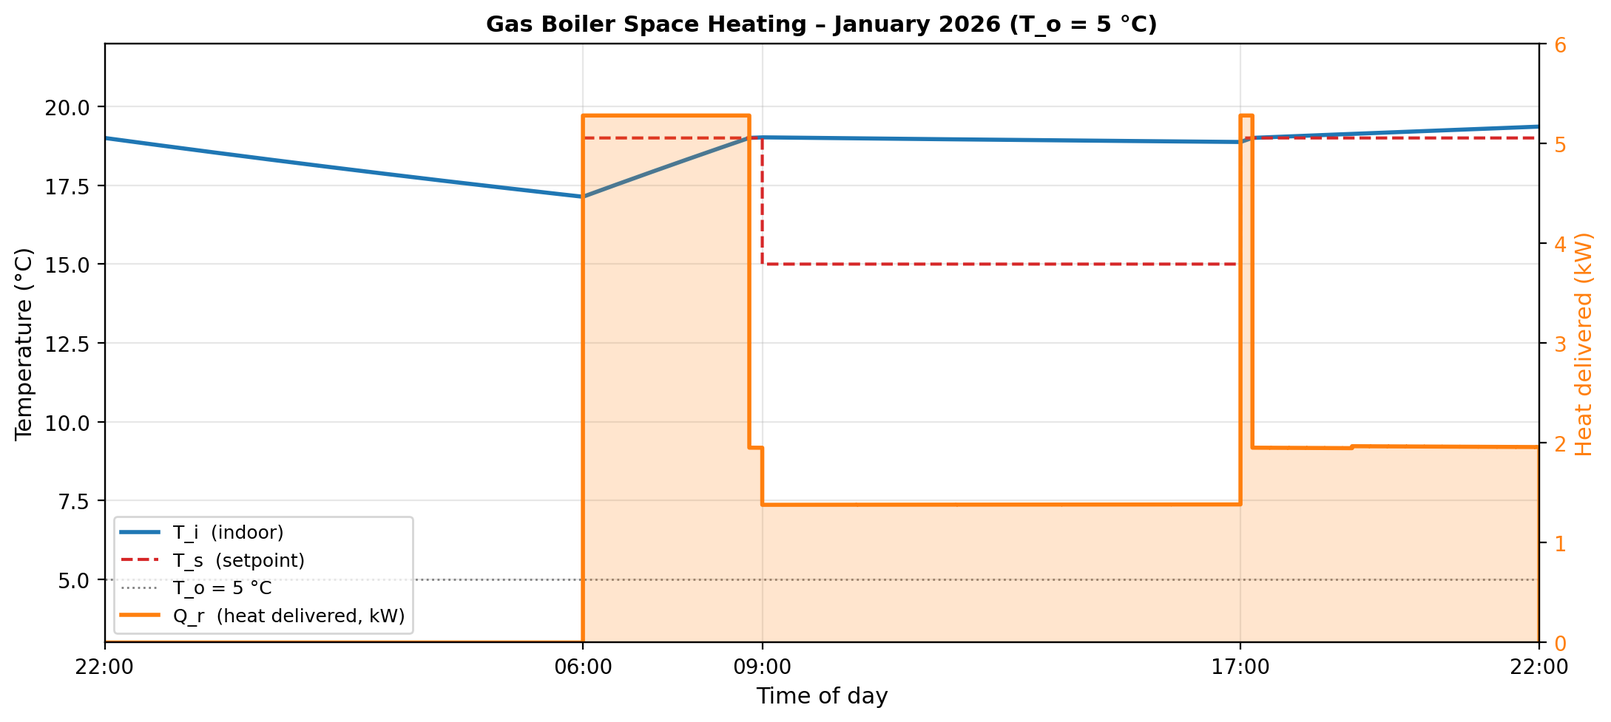
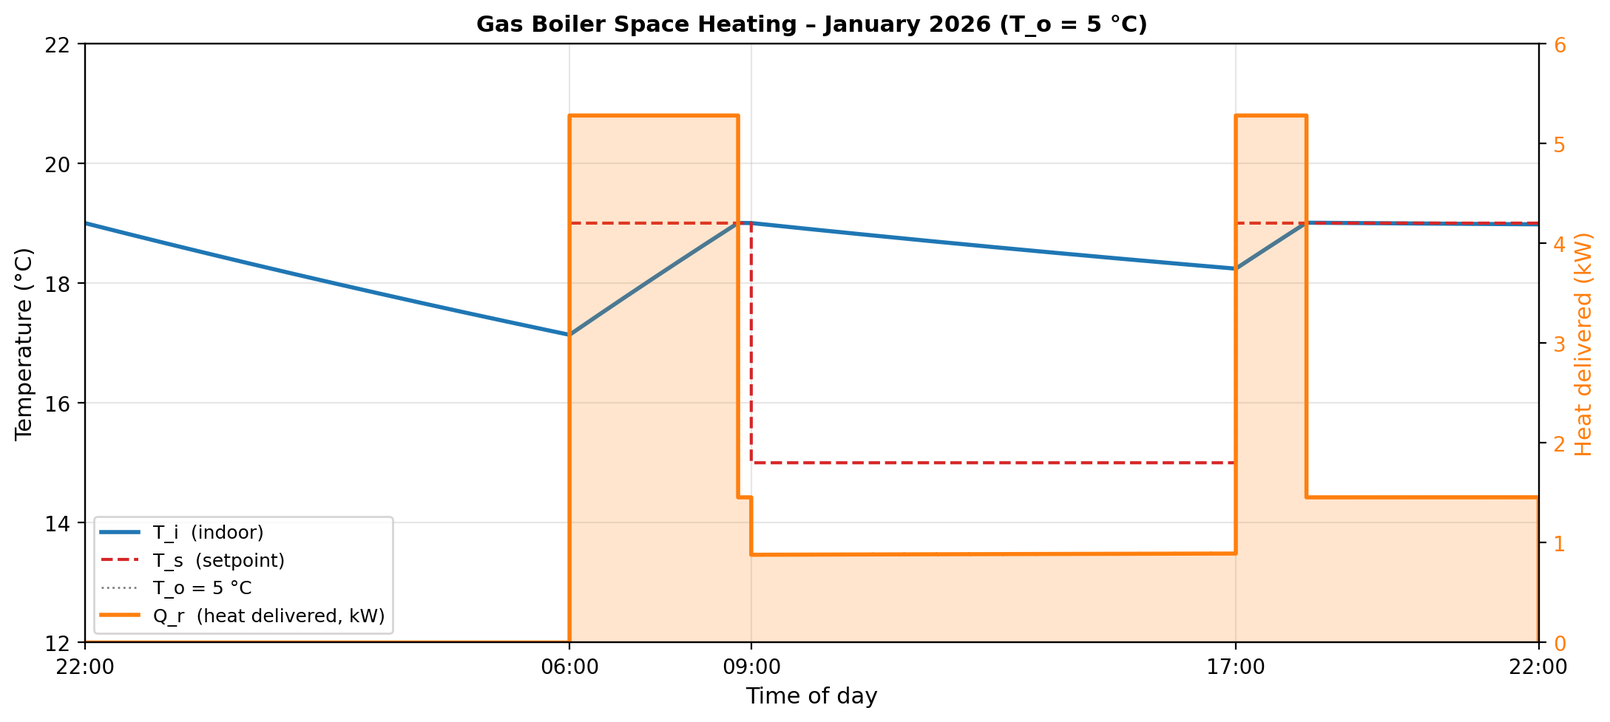
Rework calculations

diff --git a/src/heat_pump_cost/simulate_gas_boiler.py b/src/heat_pump_cost/simulate_gas_boiler.py
@@ -14,7 +14,6 @@ Model parameters (from April 2026 thermal identification):
 
 Simulation conditions:
   T_o  = 5 °C         January 2026 average outdoor temperature
-  Q_max = 12 000 W    gas boiler maximum output
   Boiler efficiency η = 0.95 (condensing)
   Gas price = 5.93 p/kWh (Ofgem January 2026 price cap)
 """
@@ -65,18 +64,37 @@ def _setpoint(t_hours: float) -> float | None:
     return SCHEDULE[-1][2]
 
 
-def _controller(T_i: float, T_s: float | None, h: float, T_o: float, Q_max: float) -> float:
-    """Bang-bang + feed-forward boiler controller.
+def _controller(T_i: float, T_s: float | None, h: float, T_o: float, Q_b: float, Q_max: float, at_setpoint: bool) -> tuple[float, bool]:
+    """Bang-bang + feed-forward boiler controller with hysteresis.
 
     - Heating OFF  → 0 W
-    - T_i < T_s    → Q_max  (full power)
-    - T_i ≥ T_s    → h * (T_s - T_o)  (feed-forward to hold setpoint)
+    - T_i < T_s (initial warm-up)  → Q_max until setpoint reached
+    - T_i ≥ T_s (first time)  → switch to feedforward, mark as at_setpoint
+    - at_setpoint AND T_i < T_s - 0.5°C  → Q_max (re-engage full power)
+    - at_setpoint AND T_i ≥ T_s - 0.5°C  → feedforward (gentle drop allowed)
+    
+    Returns:
+        (Q_h, new_at_setpoint): Heating power [W] and updated setpoint state
     """
     if T_s is None:
-        return 0.0
-    if T_i < T_s:
-        return Q_max
-    return max(0.0, h * (T_s - T_o))
+        return 0.0, False
+    
+    # If not at setpoint yet, use bang-bang to reach it
+    if not at_setpoint:
+        if T_i >= T_s:
+            # Just reached setpoint, switch to feedforward
+            return max(0.0, h * (T_s - T_o) - Q_b), True
+        else:
+            # Still warming up
+            return Q_max, False
+    
+    # Already at setpoint: use hysteresis to prevent frequent cycling
+    if T_i < T_s - 0.5:
+        # Temperature dropped too much, re-engage full power
+        return Q_max, False  # Mark as not at setpoint anymore
+    else:
+        # Use feedforward (allows gentle drop below setpoint)
+        return max(0.0, h * (T_s - T_o) - Q_b), True
 
 
 # ---------------------------------------------------------------------------
@@ -86,7 +104,7 @@ def _controller(T_i: float, T_s: float | None, h: float, T_o: float, Q_max: floa
 
 def simulate_gas_boiler(
     T_o: float = 5.0,
-    Q_max: float = 12_000.0,
+    Q_max: float = 50_000.0,
     T_i_0: float = 19.0,
     dt_s: float = 60.0,
 ) -> dict:
@@ -139,17 +157,26 @@ def simulate_gas_boiler(
     T_f_arr[0] = T_i_0
 
     T_i = T_i_0
+    at_setpoint = False  # Track whether we've reached the current setpoint
+    prev_setpoint = None  # Track setpoint changes
+    
     for k in range(n_steps - 1):
         t_h = t_h_arr[k]
         T_s = _setpoint(t_h)
-        Q_h = _controller(T_i, T_s, params.h, T_o, Q_max)
+        
+        # Reset at_setpoint flag if setpoint changed
+        if T_s != prev_setpoint:
+            at_setpoint = False
+            prev_setpoint = T_s
+        
+        Q_h, at_setpoint = _controller(T_i, T_s, params.h, T_o, params.Q_b, Q_max, at_setpoint)
 
         # Solve for flow temperature and actual radiator output
         if Q_h > 50.0:
             T_f = model.solve_flow_temp(Q_h, T_i)
             if T_f is None:
                 # Q_h exceeds radiator capacity; saturate at boiler max flow temperature
-                T_f = min(T_i + 55.0, 75.0)
+                T_f = min(T_i + 55.0, 80.0)
             T_r = model.solve_return_temp(T_f, T_i)
             Q_r = model.radiator_power(T_f, T_r, T_i) if T_r is not None else 0.0
         else:
@@ -222,8 +249,8 @@ def calculate_heat_pump_cost(result: dict) -> dict:
     # Total electricity in kWh
     total_elec_kwh = np.sum(P_elec * dt_s) / 3_600_000.0  # W⋅s → kWh
     
-    # Cost
-    cost_gbp = total_elec_kwh * ELECTRICITY_PRICE_PER_KWH + ELECTRICITY_STANDING_CHARGE
+    # Cost (energy only, standing charge added separately in display)
+    cost_gbp = total_elec_kwh * ELECTRICITY_PRICE_PER_KWH
     
     return {
         "electricity_kwh": total_elec_kwh,
@@ -275,7 +302,7 @@ def plot_gas_boiler(result: dict, output_path: Path, show: bool = False, dpi: in
                   drawstyle="steps-post", label="T_s  (setpoint)")
     l3 = ax.axhline(T_o, color="grey", linewidth=1, linestyle=":", label=f"T_o = {T_o:.0f} °C")
     ax.set_ylabel("Temperature (°C)", fontsize=11)
-    ax.set_ylim(T_o - 2, 22)
+    ax.set_ylim(12, 22)
     ax.set_title(
         f"Gas Boiler Space Heating – January 2026 (T_o = {T_o:.0f} °C)",
         fontsize=11,
@@ -396,8 +423,8 @@ def main(argv: Iterable[str] | None = None) -> int:
         help="Constant outdoor temperature T_o [°C] (default: 5.0)",
     )
     parser.add_argument(
-        "--q-max", type=float, default=12_000.0,
-        help="Boiler maximum output [W] (default: 12000)",
+        "--q-max", type=float, default=50_000.0,
+        help="Boiler commanded power [W] (default: 50000, actual delivery limited by radiator)",
     )
     parser.add_argument(
         "--output", default="assets/gas_boiler_simulation.png",

diff --git a/src/heat_pump_cost/simulate_tariff_optimized.py b/src/heat_pump_cost/simulate_tariff_optimized.py
@@ -372,7 +372,7 @@ def plot_tariff_optimized_operation(
     l1, = ax.plot(t, T_i, color="#1f77b4", linewidth=2, label="T_i  (indoor)")
     l2 = ax.axhline(T_o, color="grey", linewidth=1, linestyle=":", label=f"T_o = {T_o:.0f} °C")
     ax.set_ylabel("Temperature (°C)", fontsize=11)
-    ax.set_ylim(T_o, 22)
+    ax.set_ylim(12, 22)
     ax.set_title(
         f"Tariff-Optimized Heat Pump – January 2026 (T_o = {T_o:.0f} °C)",
         fontsize=11,

diff --git a/src/heat_pump_cost/simulate_smooth_heat_pump.py b/src/heat_pump_cost/simulate_smooth_heat_pump.py
@@ -297,7 +297,7 @@ def plot_smooth_heat_pump_operation(
                   drawstyle="steps-post", label="T_s  (setpoint)")
     l3 = ax.axhline(T_o, color="grey", linewidth=1, linestyle=":", label=f"T_o = {T_o:.0f} °C")
     ax.set_ylabel("Temperature (°C)", fontsize=11)
-    ax.set_ylim(T_o, 22)
+    ax.set_ylim(12, 22)
     ax.set_title(
         f"Smooth Heat Pump Operation – January 2026 (T_o = {T_o:.0f} °C)",
         fontsize=11,

diff --git a/operations-dynamic.md b/operations-dynamic.md
@@ -1,6 +1,6 @@
 # Quantitative Analysis of Dynamic Heat Pump Operation for Domestic Heating
 
-The preceding story, [How the Spark Gap Drives Radiator Upgrades for Heat Pump Installations ](https://medium.com/@peter-wurmsdobler/how-the-spark-gap-drives-radiator-upgrades-for-heat-pump-installations-1d3b098b29fd), addresses the implications of the spark gap on capital and operational expenses due to a nearly unavoidable upgrade in radiator capacity in order to keep the flow temperature low and the [Coefficient of Performance](https://en.wikipedia.org/wiki/Coefficient_of_performance) (COP) high; there a simple static thermal analysis looks at average quantities for heat loss and temperature for a heat pump in a stationary operation. The situation changes if dynamic aspects are taken into account for the operation of the heat pump in contrast to the gas boiler operation most homes are used to, both in terms of setpoint temperature profiles and electricity tariffs. As presented in sources such as ["So You're Thinking About a Heat Pump: The UK Homeowner's Guide to Heat Pumps"](https://www.amazon.co.uk/Youre-Thinking-About-Heat-Pump/dp/B0GK7H511K/), heat pumps require different operating strategies compared to gas boilers. The objective of this story is to demonstrate quantitatively how control and operation strategy impacts the economics of domestic heat pump heating. 
+The preceding story, [How the Spark Gap Drives Radiator Upgrades for Heat Pump Installations ](https://medium.com/@peter-wurmsdobler/how-the-spark-gap-drives-radiator-upgrades-for-heat-pump-installations-1d3b098b29fd), addresses the implications of the spark gap on capital and operational expenses due to a nearly unavoidable upgrade in radiator capacity in order to keep the flow temperature low and the [Coefficient of Performance](https://en.wikipedia.org/wiki/Coefficient_of_performance) (COP) high; there, a simple static thermal analysis looks at average quantities for heat loss and temperature for a heat pump in stationary operation. The situation changes if dynamic aspects are taken into account for the operation of the heat pump, both in terms of temperature profiles and electricity tariffs. As presented in sources such as ["So You're Thinking About a Heat Pump: The UK Homeowner's Guide to Heat Pumps"](https://www.amazon.co.uk/Youre-Thinking-About-Heat-Pump/dp/B0GK7H511K/), heat pumps require different operating strategies compared to gas boilers most households are used to. The objective of this story is to demonstrate quantitatively how control and operation strategy impacts the economics of domestic heat pump heating. 
 
 ![Cat prefers consistent heat](assets/smooth-operator.png)
 *Figure: A cat would prefer the smooth operation of a heating system with a heat pump.*
@@ -8,37 +8,37 @@ The preceding story, [How the Spark Gap Drives Radiator Upgrades for Heat Pump I
 
 # Dynamic Modelling
 
-A stationary model assumes all process variables to be constant at a given point of operation: for a constant outdoor temperature a constant heating power is required to maintain a constant indoor temperature by compensating a constant heat loss. While this static analysis can provide some insight in minimum requirements for heating at various operation points, a dynamic analysis is looking at time-variant process variables such as heating power or flow temperature. To that end a dynamic model of the system is required first.
+A stationary model assumes all process variables to be constant at a given point of operation: for a constant outdoor temperature a constant heating power is required to maintain a constant indoor temperature by compensating a constant heat loss. While this static analysis can provide some insight in minimum requirements for heating at various operating points, a dynamic analysis is looking at time-variant process variables such as heating power or flow temperature. To that end a dynamic model of the system is required first.
 
 ## Dynamic Thermal Model
 
-A dynamic model reflects the time-variant behaviour of a system. Here, I would like to use the simplest conceivable model, a linear first order model with two time-invariant parameters: the thermal capacity C of the entire house, and the specific heat loss, or Heat Transfer Coefficient (HTC), or h. The following process variables will be considered: internal temperature T_i, and outside temperature T_o; heat is supplied as Q_h at flow temperature T_f and return temperature T_r, then transferred to the internal thermal mass as Q_r through radiators; in addition, occupancy and appliances are accounted for with a heating power of Q_a. The house loses heat as Q_l through the building fabric determined by h.
+A dynamic model reflects the time-variant behaviour of a system. Here, I would like to use the simplest conceivable model, a linear first order model with two time-invariant parameters: the thermal capacity C of the entire house, and the specific heat loss, or Heat Transfer Coefficient (HTC), or h. The following process variables will be considered: internal temperature T_i, and outside temperature T_o; heat is supplied as Q_h at flow temperature T_f and return temperature T_r, then transferred to the internal thermal mass as Q_r through radiators; in addition, occupancy and appliances are accounted for with a heating power of Q_b. The house loses heat as Q_l through the building fabric determined by h.
 
 ![Simple dynamic thermal model for house](assets/house-model-dynamic.png)
 *Figure: Simple representation of a simple dynamic house model with heat source, capacity and losses.*
 
-Most commonly differential equations are used to describe dynamic systems; in this case, using heating fluid (water) density ρ, its specific thermal capacity c_p and a flow rate V_f, the characteristic radiator constant K and radiative exponent n, and finally the transfer coefficient h, the equations are:
+Differential equations are most commonly used to describe dynamic systems in combination with functional relationships between process variables; in this case, with the heating fluid (water) density ρ, its specific thermal capacity c_p and a flow rate V_f, the characteristic radiator constant K and radiative exponent n, and finally the transfer coefficient h, the equations are:
 
 Q_h = V_f * ρ * c_p * (T_f - T_r)<br>
 Q_r = K * ((T_f + T_r)/2 - T_i)^n<br>
 Q_l = h * (T_i - T_o)<br>
-C * dT_i/dt = Q_r + Q_a - Q_l
+C * dT_i/dt = Q_r + Q_b - Q_l
 
-[How the Spark Gap Drives Radiator Upgrades for Heat Pump Installations ](https://medium.com/@peter-wurmsdobler/how-the-spark-gap-drives-radiator-upgrades-for-heat-pump-installations-1d3b098b29fd) has identified the values of some parameters for the dynamic analysis: K = 44.9 W/K^1.2 with n = 1.2, ρ = 1 kg/l and c_p = 4.18 kJ/kg/K, V_f is assumed to be constant at 20 l/s for this analysis; heat power is only modulated through the flow temperature only (which keeps the flow temperature as low as possible). Also note, the heat balance for the radiator circuit (no losses in short pipework), is Q_h = Q_r. For the heat loss coefficient, we have two values: h = 244 W/K from first principles, or h = 188 W/K from recorded power consumption; the appliance/occupancy heat source is about Q_a = 0.3W but could be more; C, the house's thermal capacity is completely unknown.
+[How the Spark Gap Drives Radiator Upgrades for Heat Pump Installations ](https://medium.com/@peter-wurmsdobler/how-the-spark-gap-drives-radiator-upgrades-for-heat-pump-installations-1d3b098b29fd) has identified the values of some parameters for the dynamic analysis: K = 44.9 W/K^1.2 with n = 1.2, ρ = 1 kg/l and c_p = 4.18 kJ/kg/K; V_f is assumed to be constant at 20 l/s for this analysis; heat power is modulated through the flow temperature only (which keeps the flow temperature as low as possible). Also note, the heat balance for the radiator circuit (no losses in short pipework), is Q_h = Q_r. For the heat loss coefficient, we have two values as prior: h = 244 W/K from first principles, or h = 188 W/K from recorded power consumption; the appliance/occupancy heat source is about Q_b = 0.5 kW but could be more; C, the house's thermal capacity is completely unknown.
 
 ## Model Parameter Identification
 
-An entire discipline in control systems analysis and design is model parameter identification, usually based on recorded data, or data obtained through a system response on a stimulus. To that end, we consider a simplified model that eliminates the heating system internals, but accounts for some background power Q_b (appliances, occupancy and other sources) and radiator power Q_r:
+An entire discipline in control systems analysis and design is dedicated to model parameter identification, usually based on recorded data, or data obtained through a system response on a stimulus. To that end, we consider a simplified model that eliminates the heating system internals, but accounts for some background power Q_b (appliances, occupancy and other sources) and radiator power Q_r:
 
 C * dT_i/dt = -h * (T_i - T_o) + Q_b + Q_r
 
-In practical terms, we need to set up some experiments and record data, or obtain data from other means. To obtain the internal temperature, a [Raspberry PicoPi Temperature Logger](https://github.com/LeonardWurmsdobler/PicoTemperatureLogger) can record indoor temperature measurements. Outside temperatures we can obtain from some source such as the [Cambridge Raw Daily Weather Data](https://www.cl.cam.ac.uk/weather/index-daily-text.html). We consider three periods:
+In practical terms, we need to set up some experiments and record data. To obtain the internal temperature, a [Raspberry PicoPi Temperature Logger](https://github.com/LeonardWurmsdobler/PicoTemperatureLogger) records indoor temperature measurements. Outside temperatures are obtain from the [Cambridge Raw Daily Weather Data](https://www.cl.cam.ac.uk/weather/index-daily-text.html). We consider three periods:
 
-- "2026-04-04 01:00:00" to "2026-04-04 06:00:00", outside T_o = 7°C, heating off, i.e. Q_r = 0, and Q_b ~0.5W
-- "2026-04-05 22:45:00" to "2026-04-06 04:20:00", outside T_o = 3°C, heating off, i.e. Q_r = 0, and Q_b ~0.5W
-- "2026-04-06 06:30:00" to "2026-04-06 08:15:00", outside T_o = 3°C - 7°C, heating on full power, i.e. Q_r ~4 kW, and Q_b ~0.5W
+- "2026-04-04 01:00:00" to "2026-04-04 06:00:00", outside T_o = 7°C, heating off, i.e. Q_r = 0, and Q_b ~0.5kW
+- "2026-04-05 22:45:00" to "2026-04-06 04:20:00", outside T_o = 3°C, heating off, i.e. Q_r = 0, and Q_b ~0.5kW
+- "2026-04-06 06:30:00" to "2026-04-06 08:15:00", outside T_o = 3°C - 7°C, heating on full power, i.e. Q_r > 0 kW, and Q_b ~0.5kW
 
-Once that data was recorded, some system parameter identification tools are employed to obtain some estimates for the missing parameters, C, h and Q_a; results as shown below, details on [Thermal Parameter Identification for the Dynamic House Model](https://github.com/PeterWurmsdobler/heat-pump-cost/system-identification.md). The parameters are found to be C = 21.0 MJ/K, h = 142.6 W/K, and the associated time constant τ = 146,937 s  (40.8 h), as well as Q_b = 500 W and Q_r = 4 kW during the morning heating period. Note, the time constant of 40.8h means that the house would cool down to 63% towards the constant outside temperature after about 2 days if left unheated. 
+Some system parameter identification tools are employed to obtain estimates for the missing parameters, C, h and Q_b; results as shown below, details on [Thermal Parameter Identification for the Dynamic House Model](https://github.com/PeterWurmsdobler/heat-pump-cost/system-identification.md). The parameters are found to be C = 21.0 MJ/K, h = 142.6 W/K, and the associated time constant τ = 146,937 s  (40.8 h), as well as Q_b = 500 W and Q_r = 4 kW during the morning heating period. Note, the time constant of 40.8h means that the house would cool down to 63% towards the constant outside temperature after about 2 days if left unheated. 
 
 ![Contour Plot](assets/temperature_plot.png)
 *Figure: measured and estimated inside temperature based on the model in three conditions.*
@@ -46,34 +46,33 @@ Once that data was recorded, some system parameter identification tools are empl
 
 # Dynamic Heating Simulation
 
-Since we now have got a parameterised dynamic model, it should be possible to work out the heating requirements, and eventually the cost of heating. For this story, let's assume the January 2026 conditions with an average outdoor temperature T_o = 5°C. The heating requirement in a steady state would be Q_l = Q_r = 142.6 × 14 = **2.0 kW** to maintain an average of 19°C indoors, or ~48 kWh/day, to give a ballpark figure for the heating requirements. But houses are usually not maintained at a constant temperature throughout the day; this is where the dynamic simulation comes in.
+Since we now have got a parameterised dynamic model, it should be possible to work out the dynamic heating requirements, too, and eventually the cost of heating. For this story, let's assume the January 2026 conditions with an average outdoor temperature T_o = 5°C. The heating requirement in a steady state would be Q_l = Q_r = 142.6 × 14 = **2.0 kW** to maintain an average of 19°C indoors, or ~48 kWh/day, to give a ballpark figure for the heating requirements. But houses are usually not maintained at a constant temperature throughout the day; this is where the dynamic simulation comes in.
 
 ## Gas Boiler Space Heating
 
-Let's assume a traditional daily heating profile as pictured below using a gas boiler with a maximum rate power of 12kW: heating off after 22h, heating on at 6h in the morning with a setpoint of T_s = 19°C and at full capacity, off at 9h when we leave the house but keep the house over as T_s = 15°C, on again at 17pm until 22h with T_s = 19°C. The simplisitic relay-based controller would do the following:
+Let's assume a traditional daily heating profile as pictured below using a gas boiler with a maximum power of 6kW(^1): heating off after 22h, heating on at 6h in the morning with a setpoint of T_s = 19°C and at full capacity, off at 9h when we leave the house but keep the house over as T_s = 15°C, on again at 17h until 22h with T_s = 19°C. The simplisitic relay-based thermostatic controller would do the following:
 
-- if T_i < T_s, then full wack when on until target temperature of T_s is reached; 
+- if T_i < T_s, then full power until target temperature of T_s is reached; 
 - feed-forward heating power at constant T_s with Q_h = h * (T_s - T_o);
 - if T_i > T_s, then no heating required at all, let the temperature decay; 
 
-GRAPH: profiles of T_i, T_s on left axis, and P on the right axis
 ![Contour Plot](assets/gas_boiler_simulation.png)
-*Figure: January day heated with gas boiler, heat = 36.6 kWh/day, £3.19/day.*
+*Figure: January day heated with gas boiler, heat = 33.8 kWh/day, £3.01/day total household cost.*
 
-The gas boiler can produce the required peak power of 5.28 kW and deliver the heat through the flow temperature reaching 75°C through the existing radiators. The simulation shows that with a daily heat delivery of 36.6 kWh, the boiler consumes 38.5 kWh of gas (at 95% efficiency), resulting in a total daily cost of £3.19 including £2.29 gas energy, £0.35 gas standing charge, and £0.55 electricity standing charge (for household electricity needs).
+The gas boiler can produce the required peak power of 5.3 kW and deliver the heat through the flow temperature reaching 74°C through the existing radiators. The simulation shows that with a daily heat delivery of 33.8 kWh, the boiler consumes 35.6 kWh of gas (at 95% efficiency). The total household daily cost is £3.01 (£2.11 gas energy + £0.35 gas standing charge + £0.55 electricity standing charge for household electricity needs).
 
 ## Equivalent Heat Pump Variant
 
 Let's assume we got an equivalent heat pump installed capable of delivering the same power. Now, let's run the heat pump to deliver the same power, which would lead to the same flow and return temperatures at the same flow rate. Then let's look at the COP and the resulting electricity consumption. The flow temperature profile mirrors the power demand: when the house needs rapid heating in the morning and evening, the heat pump must push flow temperatures up to **73°C**, which reduces efficiency. The Coefficient of Performance varies throughout the day:
 
-- During high-power warm-up periods (T_f ≈ 73°C): COP ≈ **2.6**
+- During high-power warm-up periods (T_f ≈ 74°C): COP ≈ **2.7**
 - During steady-state heating (T_f ≈ 37-43°C): COP ≈ **4.7**
-- Overall seasonal average: **SCOP = 3.42**
+- Overall seasonal average: **SCOP = 3.23**
 
-With the power divided by the COP at each timestep, the total electricity consumption is **10.7 kWh/day**. At the January 2026 electricity price of 27.69 p/kWh plus 54.75p standing charge, this would cost **£4.06/day**. Compare this to the gas boiler cost of £3.19/day, and we see that running a heat pump like a gas boiler on a flat tariff actually costs **27% more** than gas despite the favorable spark gap of 4.67.
+With the power divided by the COP at each timestep, the total electricity consumption is **10.5 kWh/day**. At the January 2026 electricity price of 27.69 p/kWh plus 54.75p standing charge, this would cost **£3.44/day**. Compare this to the gas boiler household cost of £3.01/day, and we see that running a heat pump like a gas boiler on a flat tariff costs **14% more** than gas despite the favorable spark gap of 4.67.
 
 ![Heat Pump COP Profile](assets/heat_pump_cop_simulation.png)
-*Figure: January day with equivalent heat pump, heat = 36.6 kWh/day, electricity = 10.7 kWh/day, £4.06/day.*
+*Figure: January day with equivalent heat pump, heat = 33.8 kWh/day, electricity = 10.5 kWh/day, £3.44/day total household cost.*
 
 ## Smooth Operator Heat Pump
 
@@ -89,15 +88,15 @@ Running the heat pump continuously at low baseline power (800W) during off-peak 
 
 GRAPH: profiles of T_i, T_s on left axis, and P on the right axis
 ![Smooth Heat Pump Operation](assets/smooth_heat_pump_operation.png)
-*Figure: Smooth heat pump operation, heat = 36.7 kWh/day, electricity = 8.3 kWh/day, £2.84/day.*
+*Figure: Smooth heat pump operation, heat = 36.7 kWh/day, electricity = 8.3 kWh/day, £2.84/day total household cost.*
 
-The flow temperature profile reveals the efficiency advantage of continuous operation: temperatures range from 30–44°C instead of spiking to 73°C. During baseline heating periods, flow temperatures stay around 30–33°C, achieving COP values of 5.2–5.4. During comfort periods, temperatures reach 39–44°C with COP around 4.0–4.5. The overall seasonal COP of **4.44** is substantially higher than the 3.42 achieved with simple thermostat control. With electricity consumption of **8.3 kWh/day** at 27.69 p/kWh plus standing charge, the daily cost is **£2.84**—cheaper than the simple thermostat heat pump at £4.06 and approaching the gas boiler cost of £3.19.
+The flow temperature profile reveals the efficiency advantage of continuous operation: temperatures range from 30–44°C instead of spiking to 74°C. During baseline heating periods, flow temperatures stay around 30–33°C, achieving COP values of 5.2–5.4. During comfort periods, temperatures reach 39–44°C with COP around 4.0–4.5. The overall seasonal COP of **4.44** is substantially higher than the 3.23 achieved with simple thermostat control. With electricity consumption of **8.3 kWh/day** at 27.69 p/kWh plus standing charge, the daily cost is **£2.84**—cheaper than both the simple thermostat heat pump at £3.44 and the gas boiler household cost of £3.01.
 
 GRAPH: profiles of T_f on left axis, COP on the right axis
 ![Smooth Heat Pump COP](assets/smooth_heat_pump_cop.png)
 *Figure: Continuous smooth operation maintains low flow temperatures and high COP throughout the day.*
 
-This demonstrates that heat pump economics depend critically on control strategy: continuous operation with optimized flow temperatures and predictive pre-heating transforms the heat pump from 54% more expensive than gas to nearly competitive, while maintaining better comfort throughout the day. The economics could be improved by moderately upgrading radiators in order to allow lowering the flow temperature even further, hence increasing the COP and decreasing electricity consumption.
+This demonstrates that heat pump economics depend critically on control strategy: continuous operation with optimized flow temperatures and predictive pre-heating transforms the heat pump from 14% more expensive than gas to **6% cheaper**, while maintaining better comfort throughout the day. The economics could be improved further by moderately upgrading radiators in order to allow lowering the flow temperature even further, hence increasing the COP and decreasing electricity consumption.
 
 ## Playing the Dynamic Tariffs
 
@@ -121,7 +120,7 @@ The optimization strategy maintains comfort bounds (17–20°C acceptable range 
 The controller looks ahead 4 hours to anticipate rate changes and begins pre-heating before cheap periods start. Temperature remains comfortably within 18.5–20°C for most of the day, briefly touching 18°C during transitions. Total heat delivered is **41.3 kWh/day** (higher than the 36.7 kWh from flat-rate optimization, due to increased losses from maintaining warmer average temperatures).
 
 ![Tariff-Optimized Operation](assets/tariff_optimized_operation.png)
-*Figure: Tariff-optimized heat pump operation, heat = 41.3 kWh/day, electricity = 10.0 kWh/day, £3.06/day.*
+*Figure: Tariff-optimized heat pump operation, heat = 41.3 kWh/day, electricity = 10.0 kWh/day, £3.06/day total household cost.*
 
 The flow temperature and COP profiles reveal the trade-off between efficiency and cost optimization. During cheap-rate pre-heating periods, flow temperatures reach 50–55°C with COP between 3.9–4.5. During the peak period, the controller minimizes heating power, allowing lower flow temperatures around 37–42°C maintaining COP of 4.0–4.3. During standard rate periods, moderate flow temperatures of 38–46°C achieve COP around 4.2–4.5. The overall seasonal COP of **4.13** is lower than the flat-tariff smooth operation (4.44) due to the aggressive pre-heating strategy, but this is compensated by buying more energy during cheap periods.
 
@@ -144,35 +143,37 @@ Across the various heating strategies simulated, several key insights emerge abo
 
 **Operating costs for January 2026 conditions (T_o = 5°C average):**
 
-- **Gas boiler (traditional on/off control)**: £3.19/day  
-  Heat: 36.6 kWh/day, Gas: 38.5 kWh/day, Cost: £2.29 energy + £0.35 gas SC + £0.55 elec SC
+- **Gas boiler (traditional on/off control)**: £3.01/day  
+  Heat: 33.8 kWh/day, Gas: 35.6 kWh/day, Cost: £2.11 gas energy + £0.35 gas SC + £0.55 elec SC
 
-- **Heat pump with simple thermostat control (mimicking gas boiler operation)**: £4.06/day (+27% vs gas)  
-  Heat: 36.6 kWh/day, Electricity: 10.7 kWh/day, SCOP: 3.42, Cost: £3.51 energy + £0.55 elec SC  
+- **Heat pump with simple thermostat control (mimicking gas boiler operation)**: £3.44/day (+14% vs gas)  
+  Heat: 33.8 kWh/day, Electricity: 10.5 kWh/day, SCOP: 3.23, Cost: £2.90 energy + £0.55 elec SC  
   Flow temperatures spike to 73°C, reducing efficiency during warm-up periods.
 
-- **Heat pump with smooth continuous operation (flat tariff)**: £2.84/day (–11% vs gas)  
+- **Heat pump with smooth continuous operation (flat tariff)**: £2.84/day (−6% vs gas)  
   Heat: 36.7 kWh/day, Electricity: 8.3 kWh/day, SCOP: 4.44, Cost: £2.29 energy + £0.55 elec SC  
   Continuous baseline heating, flow temperatures 30–44°C, superior comfort and COP.
 
-- **Heat pump with tariff-optimized operation (Octopus Cosy)**: £3.06/day (–4% vs gas)  
+- **Heat pump with tariff-optimized operation (Octopus Cosy)**: £3.06/day (+2% vs gas)  
   Heat: 41.3 kWh/day, Electricity: 10.0 kWh/day, SCOP: 4.13, Cost: £2.51 energy + £0.55 elec SC  
   Pre-heating during cheap periods (14.53p), flow temperatures up to 55°C when electricity is cheap.
 
-The smooth continuous heat pump operation achieves the lowest cost and best comfort, costing 11% less than gas heating. This demonstrates that heat pumps can be economically competitive with gas when operated intelligently with optimized flow temperatures and predictive control. The tariff-optimized strategy shows that dynamic electricity pricing can reduce costs further for households willing to accept slight efficiency trade-offs during cheap-rate periods.
+The smooth continuous heat pump operation achieves the lowest cost of all scenarios at £2.84/day—actually **6% cheaper than gas heating** while providing superior comfort. This demonstrates that heat pumps can not only match but beat gas economics when operated intelligently with optimized flow temperatures and predictive control. The tariff-optimized strategy on Octopus Cosy achieves near cost parity with gas at only 2% more expensive, while saving £0.26/day compared to running the same control strategy on a flat tariff.
 
 
 # Conclusion
 
 In summary, a heating system using a heat pump cannot be operated like one with a gas boiler; it needs an awareness of energy prices and some minimum understanding of heat pump principles, in particular COP. The operation and the optimisation of the sytem become quite complex, also depending on the optimisation criteria, e.g. minimise energy, cost or CO2, or all of them, and to what proportion. Control strategy matters more than hardware. Consequently, there are some options:
 
-- DIY: set up [Home Assistant](https://www.home-assistant.io/), automate your home with sensors and actuators, and spend your weekends on optimisation of the energy system;
+- DIY: set up [Home Assistant](https://www.home-assistant.io/), automate your home with sensors and actuators, and spend your weekends on optimisation of the home energy system;
 - use the energy management system that comes with a heat pump manufacturer which might even integrate other appliances, e.g. [Bosch Energy Managegment](https://www.bosch.com/stories/smart-home-energy-management-system/);
 - outsource the optimisation to a specialist cloud software provider that manages all of that for you, learning from patterns across a wider user base, e.g. [Havenwise](https://www.havenwise.co.uk/) or [Adia Thermal](https://adiathermal.co.uk/).
 
 
 # References
 
-1. **Energy costs**: as of January 2026, Ofgem energy price cap for a typical dual-fuel household paying by Direct Debit sets electricity at 27.69p per kWh with a 54.75p daily standing charge, and gas at 5.93p per kWh with a 35.09p daily standing charge. All cost comparisons in this analysis include electricity standing charges for all scenarios, reflecting the reality that all households pay for electricity grid connection regardless of heating method.
+1. **Boiler efficiency:** The Viessmann Vitodens 222-F condensing gas boiler achieves 95% efficiency under typical operating conditions and a rated power of 26kW; only a fraction is used for heating due to the radiator flow temperature limit.
 
-2. **Octopus Cosy**: This tariff is location dependent and used to be quite interesting, cosy rate down to 8p/kWh. Now the rates are as follows. Day rate: 33.28p / kWh, Cosy rate (04:00 - 07:00, 13:00 - 16:00, 22:00 - 00:00): 14.53p / kWh, Peak rate (16:00 - 19:00): 51.68p / kWh; Standing charge: 52.19p / day
+2. **Energy costs**: as of January 2026, Ofgem energy price cap for a typical dual-fuel household paying by Direct Debit sets electricity at 27.69p per kWh with a 54.75p daily standing charge, and gas at 5.93p per kWh with a 35.09p daily standing charge. All cost comparisons in this analysis include electricity standing charges for all scenarios, reflecting the reality that all households pay for electricity grid connection regardless of heating method.
+
+3. **Octopus Cosy**: This tariff is location dependent and used to be quite interesting, cosy rate down to 8p/kWh. Now the rates are as follows. Day rate: 33.28p / kWh, Cosy rate (04:00 - 07:00, 13:00 - 16:00, 22:00 - 00:00): 14.53p / kWh, Peak rate (16:00 - 19:00): 51.68p / kWh; Standing charge: 52.19p / day
